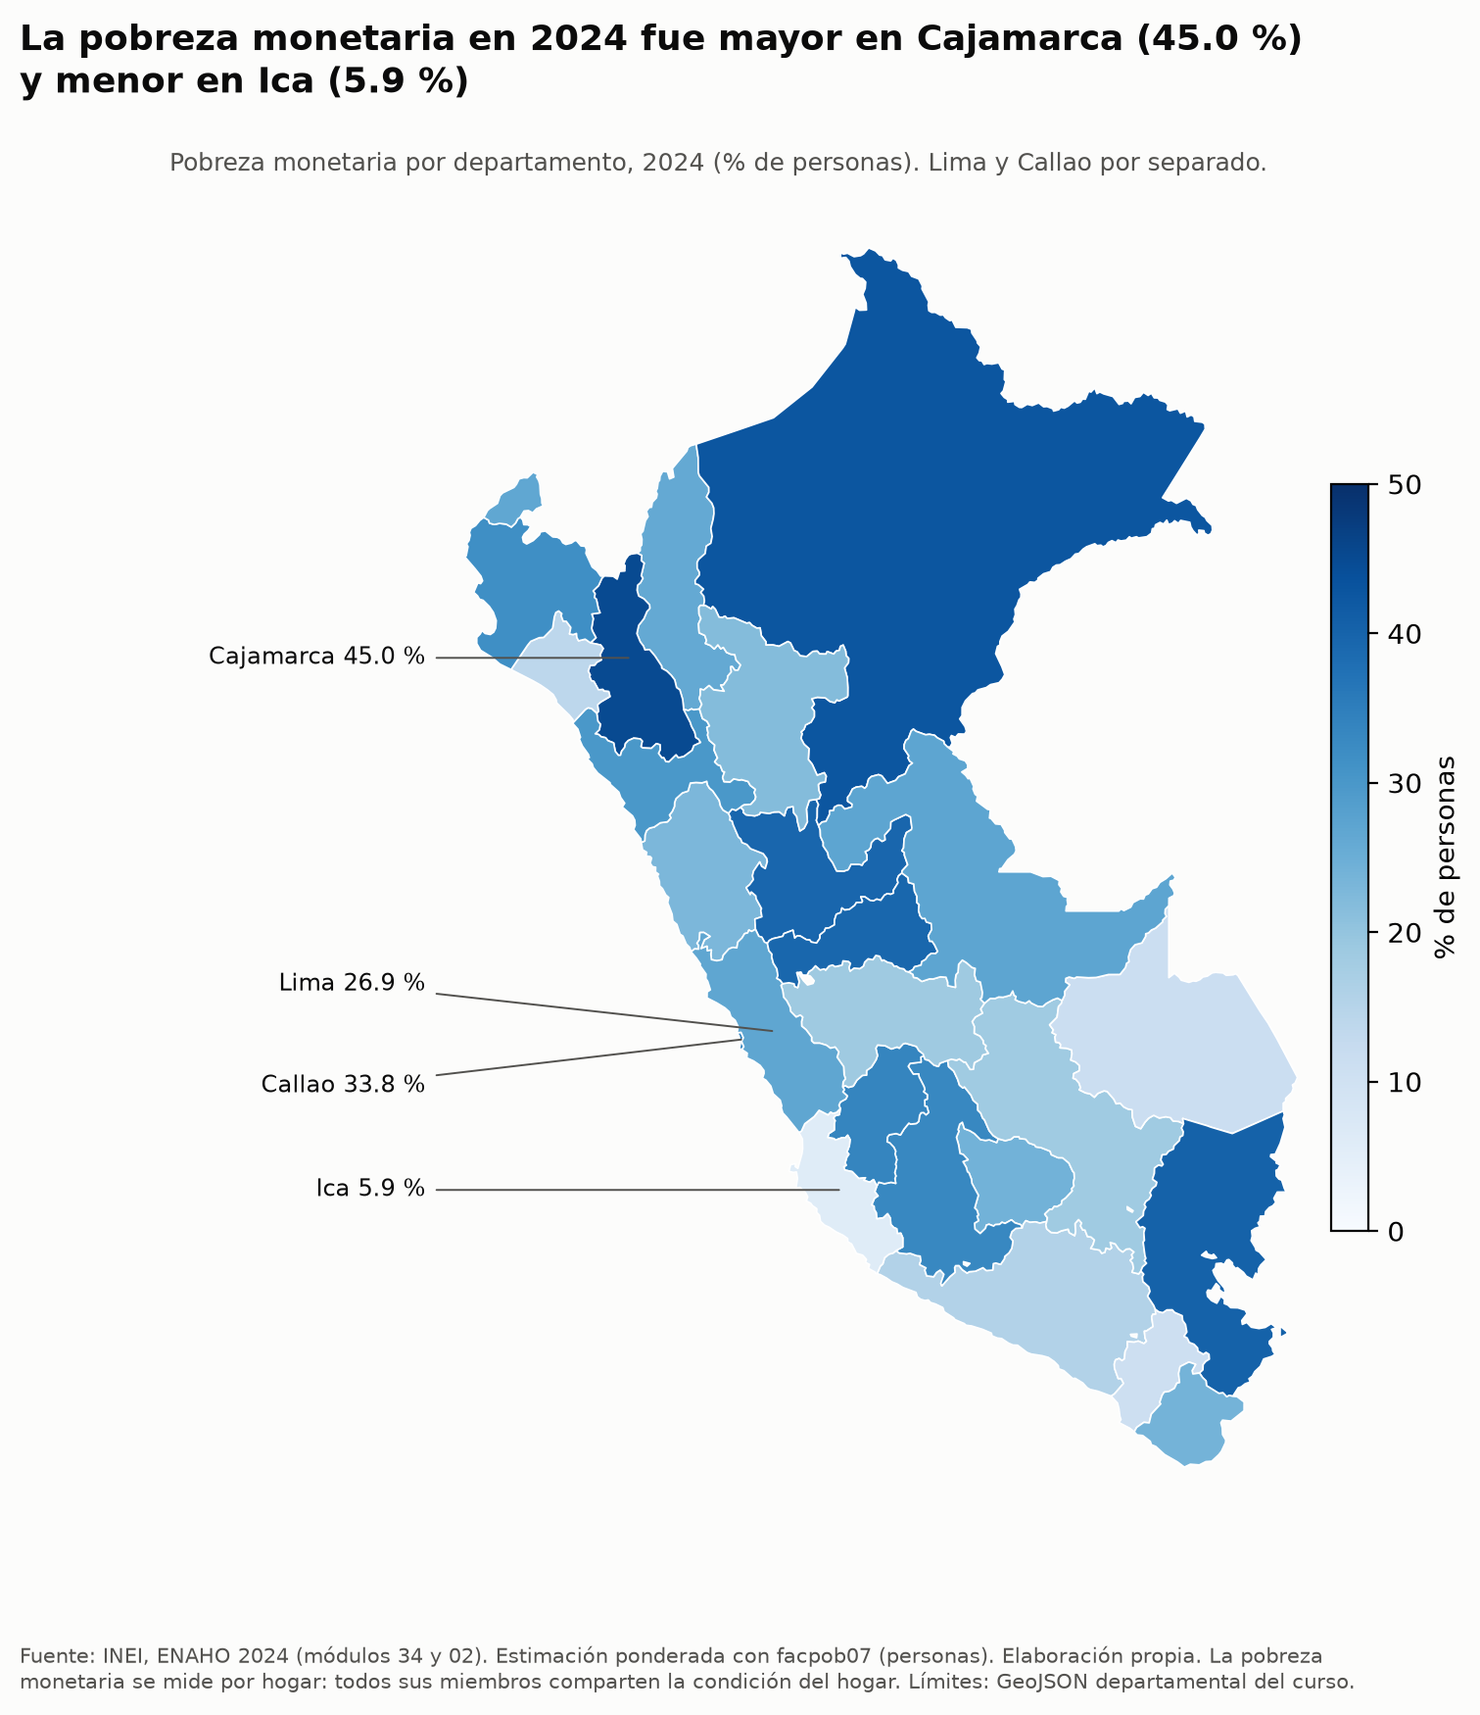
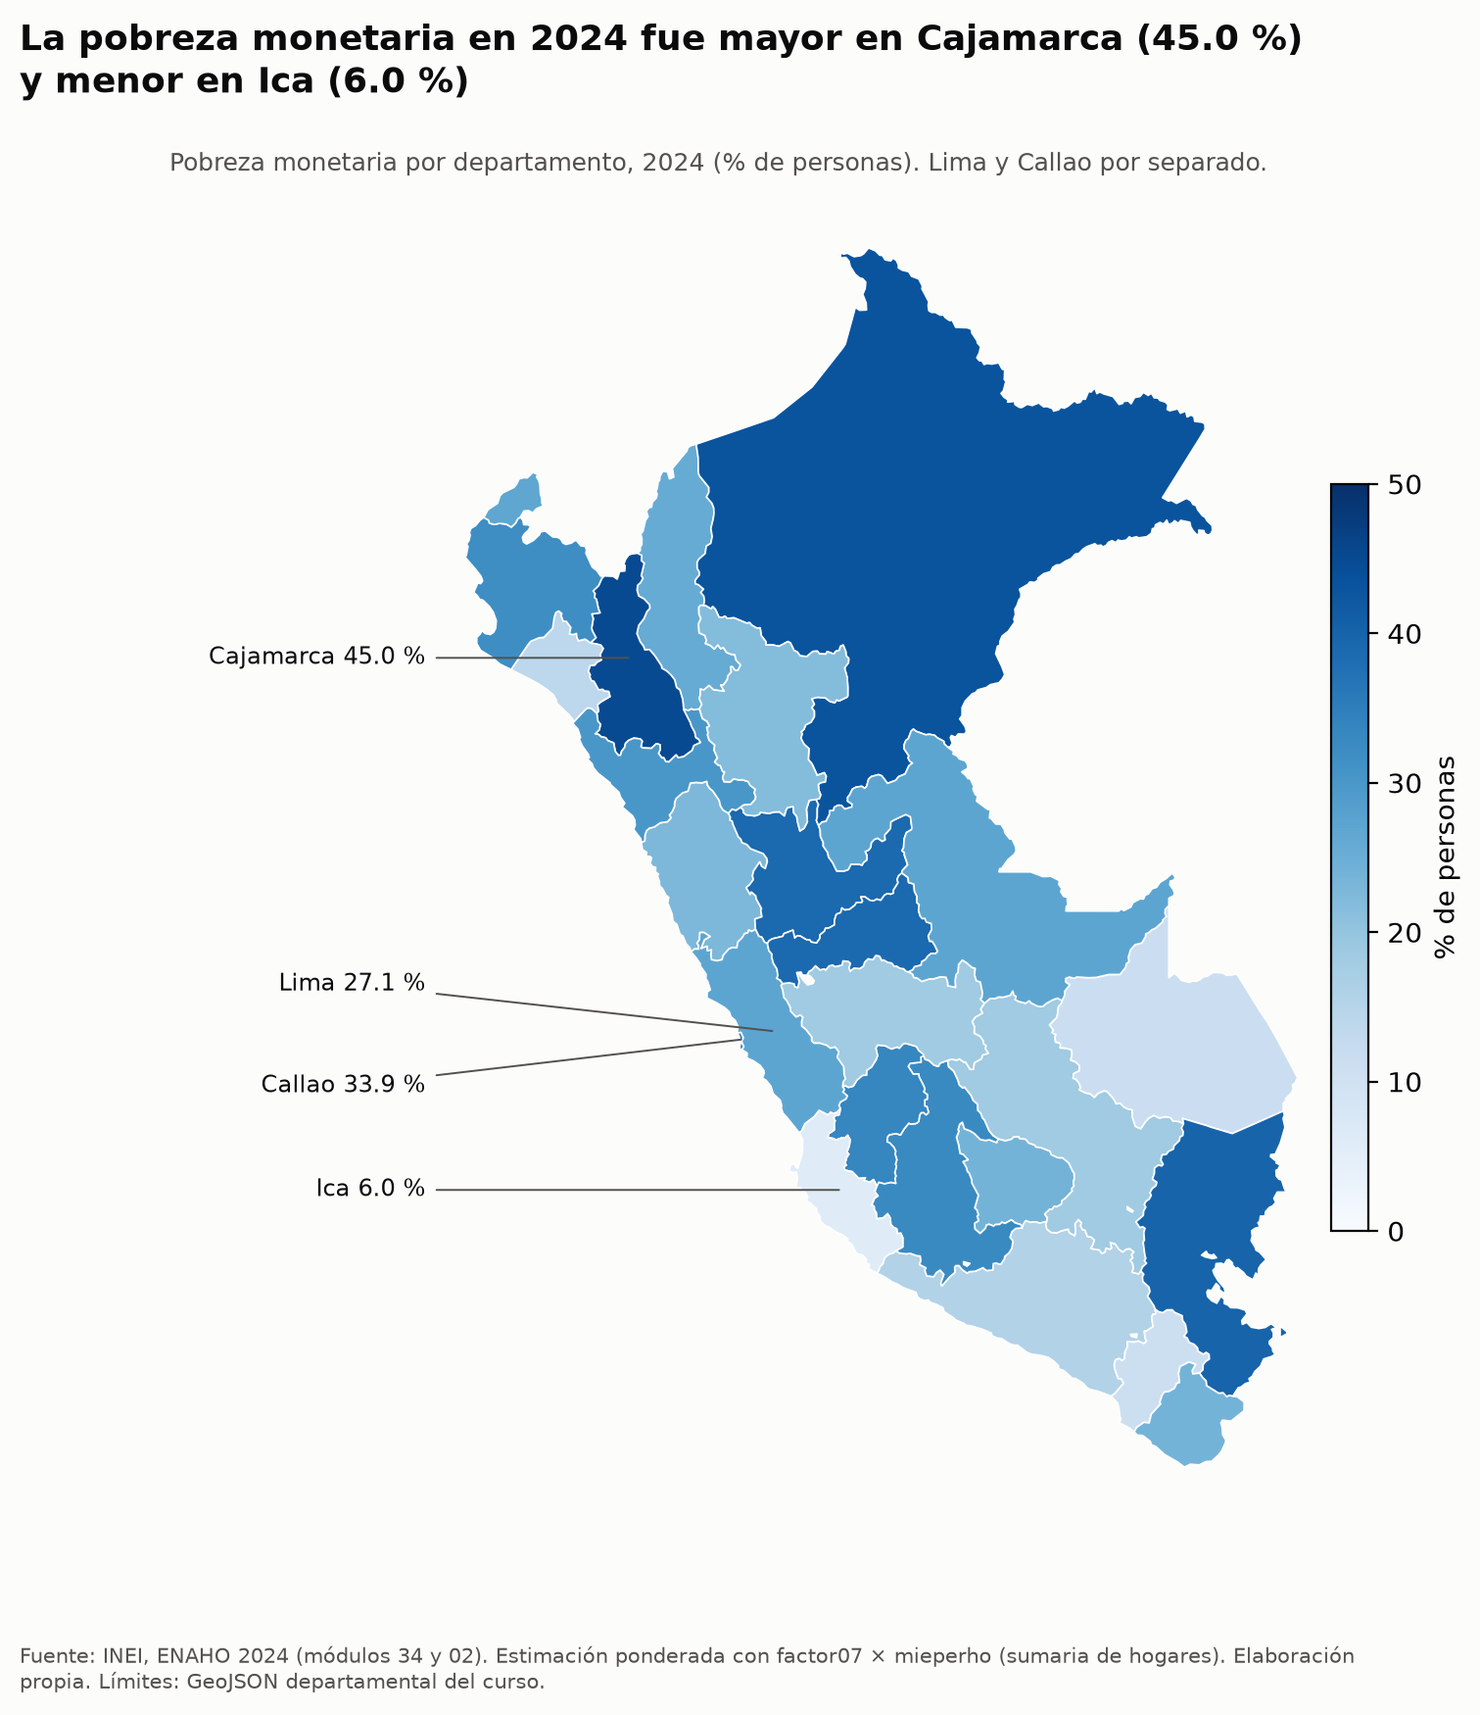
fix(skills): mapa ponderado con la sumaria (factor07 × mieperho)
El mapa usa ahora el mismo método que el gráfico de departamentos y la
referencia del curso: los 25 departamentos quedan a ≤0.1 pp de la
referencia y el script comprueba que coincida con indicadores.csv y
con grafico_por_departamento_2024.csv. comparacion_mapa.csv conserva la
cifra con facpob07 solo como contraste. Se actualizan la nota al pie,
SKILL.md, el README y la línea informativa de validacion.txt.

Changed region(s): [[0.4977, 0.9566, 0.9021, 0.9874], [0.0311, 0.9566, 0.4355, 0.9874]]

diff --git a/.claude/skills/mapeando-enaho/scripts/mapear.py b/.claude/skills/mapeando-enaho/scripts/mapear.py
@@ -3,8 +3,12 @@
 Uso (desde la raíz del proyecto):
     uv run python .claude/skills/mapeando-enaho/scripts/mapear.py
 
+Método: sumaria de hogares ponderada con factor07 × mieperho (el mismo del gráfico de
+departamentos de graficando-enaho y de la referencia del curso).
+
 Entradas:
-    salidas/personas_2024.parquet          (lo genera la skill limpiando-enaho)
+    salidas/hogares_2024.parquet           (lo genera la skill limpiando-enaho)
+    salidas/personas_2024.parquet          (solo para la columna informativa con facpob07)
     datos/peru_departamental_simple.geojson (límites; código FIRST_IDDP)
     datos/pobreza_departamento_2024.csv     (referencia de la Sesión 16 del curso,
                                              calculada con ENAHO 2024 del INEI)
@@ -36,11 +40,9 @@ TINTA = "#0b0b0b"
 TINTA_2 = "#52514e"
 FONDO = "#fcfcfb"
 CODIGOS = [f"{i:02d}" for i in range(1, 26)]
-# La referencia usa la sumaria (factor07 × mieperho) y viene redondeada a un decimal.
-# Con el mismo método se exige ≤0.1 pp. El mapa usa personas y facpob07; ahí se acepta
-# hasta 1 pp (la diferencia de método); una brecha mayor indica un error de unión.
-TOLERANCIA_MISMO_METODO_PP = 0.1
-TOLERANCIA_REF_PP = 1.0
+# El mapa y la referencia usan el mismo método (sumaria, factor07 × mieperho); la
+# referencia viene redondeada a un decimal, así que se exige ≤0.1 pp.
+TOLERANCIA_REF_PP = 0.1
 URL_GEOJSON = ("https://raw.githubusercontent.com/d2cml-ai/Data-Science-Python/main/"
                "sessions/06-geoespacial/lab/Data/peru_departamental_simple.geojson")
 URL_REF = ("https://raw.githubusercontent.com/d2cml-ai/Data-Science-Python/main/"
@@ -60,26 +62,32 @@ def main() -> None:
     ap.add_argument("--mapas", type=Path, default=Path("mapas"))
     a = ap.parse_args()
 
-    parquet = a.salidas / f"personas_{a.anio}.parquet"
-    if not parquet.exists():
-        fallar(f"no existe {parquet}. Usa primero la skill limpiando-enaho "
-               f"(uv run python .claude/skills/limpiando-enaho/scripts/limpiar.py --anio {a.anio}).")
+    hogares_pq = a.salidas / f"hogares_{a.anio}.parquet"
+    personas_pq = a.salidas / f"personas_{a.anio}.parquet"
+    for pq in (personas_pq, hogares_pq):
+        if not pq.exists():
+            fallar(f"no existe {pq}. Usa primero la skill limpiando-enaho "
+                   f"(uv run python .claude/skills/limpiando-enaho/scripts/limpiar.py --anio {a.anio}).")
     geo_path = a.datos / "peru_departamental_simple.geojson"
     ref_path = a.datos / f"pobreza_departamento_{a.anio}.csv"
     for ruta, url in [(geo_path, URL_GEOJSON), (ref_path, URL_REF)]:
         if not ruta.exists():
             fallar(f"falta {ruta}. Descárgalo de {url}")
 
-    # 1. Pobreza por departamento, ponderada con facpob07 (nunca promedio simple).
-    base = pd.read_parquet(parquet, columns=["departamento", "pobre", "facpob07"])
-    base["departamento"] = base["departamento"].astype(str)
-    pob = (
-        base.groupby("departamento")
-        .apply(lambda d: np.average(d["pobre"].astype(float), weights=d["facpob07"]) * 100,
-               include_groups=False)
-        .rename("pobreza_pct")
-        .reset_index()
-    )
+    def ponderar(df: pd.DataFrame, peso: str) -> pd.Series:
+        """% de personas pobres por departamento, ponderado (nunca promedio simple)."""
+        return df.groupby("departamento").apply(
+            lambda d: np.average(d["pobre"].astype(float), weights=d[peso]) * 100, include_groups=False)
+
+    # 1. Pobreza por departamento con la sumaria: cada hogar pesa factor07 × mieperho.
+    hog = pd.read_parquet(hogares_pq, columns=["departamento", "pobre", "factor07", "mieperho"])
+    hog["departamento"] = hog["departamento"].astype(str)
+    hog["peso"] = hog["factor07"] * hog["mieperho"]
+    pob = ponderar(hog, "peso").rename("pobreza_pct").reset_index()
+    # Solo informativo: la misma cifra con personas y facpob07.
+    per = pd.read_parquet(personas_pq, columns=["departamento", "pobre", "facpob07"])
+    per["departamento"] = per["departamento"].astype(str)
+    pob_personas = ponderar(per, "facpob07").rename("pobreza_personas_facpob07_pct").reset_index()
 
     # 2. Unir por código como texto (FIRST_IDDP), nunca por nombre.
     geo = gpd.read_file(geo_path)
@@ -103,40 +111,49 @@ def main() -> None:
     comp = (
         mapa[["FIRST_IDDP", "NOMBDEP", "pobreza_pct"]]
         .rename(columns={"FIRST_IDDP": "codigo", "NOMBDEP": "departamento",
-                         "pobreza_pct": "pobreza_calculada_pct"})
+                         "pobreza_pct": "pobreza_mapa_sumaria_pct"})
         .merge(ref.rename(columns={"ccdd": "codigo", "pobreza_pct": "pobreza_referencia_pct"})
                [["codigo", "pobreza_referencia_pct"]], on="codigo", how="left", validate="1:1")
+        .merge(pob_personas.rename(columns={"departamento": "codigo"}), on="codigo", how="left",
+               validate="1:1")
         .sort_values("codigo")
     )
-    # Contraste con el mismo método de la referencia (sumaria, factor07 × mieperho),
-    # que calcula limpiando-enaho en salidas/indicadores.csv.
-    ind = pd.read_csv(a.salidas / "indicadores.csv", dtype={"codigo": str})
-    sumaria = (ind.loc[ind.grupo == "departamento_contraste", ["codigo", "pobreza_pct"]]
-               .rename(columns={"pobreza_pct": "pobreza_sumaria_pct"}))
-    if len(sumaria) != 25:
-        fallar("indicadores.csv no tiene los 25 departamentos de contraste; vuelve a correr limpiando-enaho.")
-    comp = comp.merge(sumaria, on="codigo", how="left", validate="1:1")
-    comp["pobreza_calculada_pct"] = comp["pobreza_calculada_pct"].round(2)
-    comp["dif_facpob07_pp"] = (comp["pobreza_calculada_pct"] - comp["pobreza_referencia_pct"]).round(2)
-    comp["dif_sumaria_pp"] = (comp["pobreza_sumaria_pct"] - comp["pobreza_referencia_pct"]).round(2)
-    comp["valida_mismo_metodo"] = comp["dif_sumaria_pp"].abs() <= TOLERANCIA_MISMO_METODO_PP
-    comp["valida_facpob07"] = comp["dif_facpob07_pp"].abs() <= TOLERANCIA_REF_PP
-    comp = comp.rename(columns={"pobreza_calculada_pct": "pobreza_mapa_facpob07_pct"})
+    comp["pobreza_mapa_sumaria_pct"] = comp["pobreza_mapa_sumaria_pct"].round(2)
+    comp["pobreza_personas_facpob07_pct"] = comp["pobreza_personas_facpob07_pct"].round(2)
+    comp["diferencia_pp"] = (comp["pobreza_mapa_sumaria_pct"] - comp["pobreza_referencia_pct"]).round(2)
+    comp["dentro_tolerancia"] = comp["diferencia_pp"].abs() <= TOLERANCIA_REF_PP
+    comp["metodo_mapa"] = "factor07 × mieperho (sumaria de hogares)"
     comp["referencia"] = "Sesión 16 del curso, calculada con ENAHO 2024 del INEI"
+    comp = comp[["codigo", "departamento", "pobreza_mapa_sumaria_pct", "pobreza_referencia_pct",
+                 "diferencia_pp", "dentro_tolerancia", "pobreza_personas_facpob07_pct",
+                 "metodo_mapa", "referencia"]]
     a.salidas.mkdir(parents=True, exist_ok=True)
-    comp.drop(columns="geometry", errors="ignore").to_csv(
-        a.salidas / "comparacion_mapa.csv", index=False, encoding="utf-8")
+    comp.to_csv(a.salidas / "comparacion_mapa.csv", index=False, encoding="utf-8")
     print(f"Guardado: {a.salidas / 'comparacion_mapa.csv'}")
-    for col, met in [("dif_sumaria_pp", "sumaria, factor07 × mieperho (mismo método)"),
-                     ("dif_facpob07_pp", "personas, facpob07 (valor del mapa)")]:
-        print(f"Diferencia con la referencia [{met}]: media {comp[col].abs().mean():.2f} pp, "
-              f"máxima {comp[col].abs().max():.2f} pp ({comp.loc[comp[col].abs().idxmax(), 'departamento']}).")
-    malos = comp.loc[~(comp["valida_mismo_metodo"] & comp["valida_facpob07"])]
-    if comp["pobreza_referencia_pct"].isna().any() or len(malos):
-        print(malos.to_string(index=False))
-        fallar(f"algún departamento difiere de la referencia (>{TOLERANCIA_MISMO_METODO_PP} pp con el mismo "
-               f"método o >{TOLERANCIA_REF_PP} pp con facpob07); revisa la unión (no ajustes resultados).")
-    print(f"Validación: 25 de 25 departamentos a ≤{TOLERANCIA_MISMO_METODO_PP} pp de la referencia con el mismo método.")
+    print(f"Diferencia con la referencia: media {comp['diferencia_pp'].abs().mean():.2f} pp, máxima "
+          f"{comp['diferencia_pp'].abs().max():.2f} pp ({comp.loc[comp['diferencia_pp'].abs().idxmax(), 'departamento']}).")
+    if comp["pobreza_referencia_pct"].isna().any() or not comp["dentro_tolerancia"].all():
+        print(comp.loc[~comp["dentro_tolerancia"]].to_string(index=False))
+        fallar(f"algún departamento difiere de la referencia en más de {TOLERANCIA_REF_PP} pp; "
+               "revisa la unión y la ponderación (no ajustes resultados).")
+    print(f"Validación: 25 de 25 departamentos a ≤{TOLERANCIA_REF_PP} pp de la referencia.")
+
+    # Control: el mapa debe coincidir con indicadores.csv (limpiando-enaho) y con el
+    # gráfico de departamentos (graficando-enaho), que usan el mismo método.
+    ind = pd.read_csv(a.salidas / "indicadores.csv", dtype={"codigo": str})
+    ref_ind = ind.loc[ind.grupo == "departamento_contraste"].set_index("codigo")["pobreza_pct"]
+    dif_ind = (comp.set_index("codigo")["pobreza_mapa_sumaria_pct"] - ref_ind).abs().max()
+    if not dif_ind <= 0.01:
+        fallar(f"el mapa no coincide con indicadores.csv (dif. {dif_ind}).")
+    graf = a.salidas / f"grafico_por_departamento_{a.anio}.csv"
+    if graf.exists():
+        # El CSV del gráfico guarda 3 decimales: se compara con el valor sin redondear del mapa
+        # (re-redondear a 2 decimales causaría falsas diferencias de 0.01).
+        g = pd.read_csv(graf, dtype={"codigo": str}).set_index("codigo")["estimacion"]
+        dif_g = (pob.set_index("departamento")["pobreza_pct"] - g).abs().max()
+        if not dif_g <= 0.001:
+            fallar(f"el mapa no coincide con {graf} (dif. {dif_g}).")
+        print(f"Control: el mapa coincide con indicadores.csv y con {graf.name}.")
 
     # 4. Mapa: una sola escala secuencial (claro→oscuro) desde 0.
     vmax = float(np.ceil(mapa["pobreza_pct"].max() / 10) * 10)
@@ -170,9 +187,8 @@ def main() -> None:
     ax.set_title(f"Pobreza monetaria por departamento, {a.anio} (% de personas). "
                  "Lima y Callao por separado.", loc="left", fontsize=9, color=TINTA_2)
     # Misma nota que graficando-enaho (sin la frase de IC: el mapa no muestra intervalos).
-    nota = (f"Fuente: INEI, ENAHO {a.anio} (módulos 34 y 02). Estimación ponderada con facpob07 (personas). "
-            "Elaboración propia. La pobreza monetaria se mide por hogar: todos sus miembros comparten la "
-            "condición del hogar. Límites: GeoJSON departamental del curso.")
+    nota = (f"Fuente: INEI, ENAHO {a.anio} (módulos 34 y 02). Estimación ponderada con factor07 × mieperho "
+            "(sumaria de hogares). Elaboración propia. Límites: GeoJSON departamental del curso.")
     fig.text(0.04, 0.02, textwrap.fill(nota, 125), fontsize=7.5, color=TINTA_2, ha="left", va="bottom")
     a.mapas.mkdir(parents=True, exist_ok=True)
     salida = a.mapas / f"pobreza_departamento_{a.anio}.png"

diff --git a/.claude/skills/limpiando-enaho/scripts/limpiar.py b/.claude/skills/limpiando-enaho/scripts/limpiar.py
@@ -257,7 +257,8 @@ def main() -> None:
     fallidas = [c for c in chequeos if not c[1] and c[2]]
     lineas += [
         "",
-        "[INFORMATIVA] Pobreza por área con personas y facpob07 (la que usan los gráficos y el mapa): "
+        "[INFORMATIVA] Pobreza por área con personas y facpob07 (contraste; los gráficos de área y "
+        "departamento y el mapa usan la sumaria, los de sexo y edad usan personas): "
         f"urbano {urb_p:.2f} %, rural {rur_p:.2f} %.",
         f"[INFORMATIVA] Difiere de la sumaria porque en {n_hog_distinto:,} de {len(sumaria):,} hogares "
         f"({n_hog_distinto / len(sumaria):.1%}) los residentes habituales del módulo 02 no coinciden con "

diff --git a/README.md b/README.md
@@ -103,7 +103,7 @@ resultado es el mismo cada vez.
 |---|---|---|---|
 | `limpiando-enaho` | Lee los módulos 34 y 02, filtra residentes habituales, une con `validate="m:1"`, construye departamento, área, sexo y pobreza; pondera y valida | `datos/966-Modulo34.zip`, `datos/966-Modulo02.zip` | `salidas/personas_2024.parquet` y `salidas/hogares_2024.parquet` (no se suben), `salidas/indicadores.csv`, `salidas/validacion.txt` |
 | `graficando-enaho` | Barras de pobreza (o pobreza extrema) por área, sexo, edad y departamento, con IC 95 % del diseño muestral y el promedio nacional | los dos parquet | `figuras/pobreza_{area,sexo,edad,departamento}_2024.png`, `salidas/grafico_por_<corte>_2024.csv` |
-| `mapeando-enaho` | Mapa coroplético por departamento unido por código (`ubigeo[:2]` = `FIRST_IDDP`) y comparación con la referencia | el parquet, el GeoJSON y el CSV de referencia | `mapas/pobreza_departamento_2024.png`, `salidas/comparacion_mapa.csv` |
+| `mapeando-enaho` | Mapa coroplético por departamento con la sumaria (`factor07 × mieperho`), unido por código (`ubigeo[:2]` = `FIRST_IDDP`) y comparado con la referencia | los dos parquet, el GeoJSON y el CSV de referencia | `mapas/pobreza_departamento_2024.png`, `salidas/comparacion_mapa.csv` |
 
 `graficando-enaho` y `mapeando-enaho` dicen: «Si no existe `salidas/personas_2024.parquet`, usa primero
 la skill `limpiando-enaho`». Así un solo pedido (por ejemplo, «Haz un mapa de la pobreza monetaria por
@@ -112,11 +112,12 @@ departamento con ENAHO 2024») activa dos skills seguidas.
 ### Ponderación
 
 Toda cifra está ponderada; nunca se usan promedios simples. La base de personas usa `facpob07`, el factor
-de expansión de cada persona. Como contraste, la sumaria usa `factor07 × mieperho`, porque cada hogar
-representa a tantas personas como su factor por el número de miembros. Las cifras oficiales por área y la
-referencia por departamento usan la sumaria, así que cada cifra se valida contra la referencia calculada
-con el mismo método. Las dos ponderaciones difieren en décimas porque en algunos hogares los residentes
-habituales no coinciden con `mieperho`; el detalle está en `salidas/validacion.txt`.
+de expansión de cada persona. La sumaria usa `factor07 × mieperho`, porque cada hogar representa a tantas
+personas como su factor por el número de miembros. Las cifras oficiales por área y la referencia por
+departamento usan la sumaria, así que los gráficos de área y departamento y el mapa también la usan; sexo
+y edad, que son atributos de cada persona, usan `facpob07`. Las dos ponderaciones difieren en décimas
+porque en algunos hogares los residentes habituales no coinciden con `mieperho`; el detalle está en
+`salidas/validacion.txt`.
 
 ### Descargar los datos
 
@@ -176,7 +177,7 @@ Cada cifra se compara con la referencia calculada con el mismo método.
 [APROBADA] Pobreza urbana (sumaria, factor07 × mieperho) ≈ 24.8 % (≤0.1 pp): 24.81 % (diferencia +0.01 pp)
 [APROBADA] Pobreza rural (sumaria, factor07 × mieperho) ≈ 39.3 % (≤0.1 pp): 39.30 % (diferencia +0.00 pp)
 
-[INFORMATIVA] Pobreza por área con personas y facpob07 (la que usan los gráficos y el mapa): urbano 24.74 %, rural 39.44 %.
+[INFORMATIVA] Pobreza por área con personas y facpob07 (contraste; los gráficos de área y departamento y el mapa usan la sumaria, los de sexo y edad usan personas): urbano 24.74 %, rural 39.44 %.
 [INFORMATIVA] Difiere de la sumaria porque en 1,846 de 33,691 hogares (5.5%) los residentes habituales del módulo 02 no coinciden con mieperho (el INEI excluye de mieperho a trabajadores del hogar y pensionistas). Son dos ponderaciones válidas; ninguna cifra se ajustó.
 
 Resultado: 12 de 12 verificaciones aprobadas.

diff --git a/.claude/skills/mapeando-enaho/SKILL.md b/.claude/skills/mapeando-enaho/SKILL.md
@@ -11,8 +11,9 @@ No calcules la pobreza por tu cuenta ni leas los `.dta` directamente.
 
 ## Pasos
 
-1. Verifica que exista `salidas/personas_2024.parquet`. Si no existe, usa la skill
-   `limpiando-enaho` y continúa solo si su `salidas/validacion.txt` no tiene `FALLIDA`.
+1. Verifica que existan `salidas/personas_2024.parquet` y `salidas/hogares_2024.parquet`. Si
+   falta alguno, usa la skill `limpiando-enaho` y continúa solo si su `salidas/validacion.txt`
+   no tiene `FALLIDA`.
 2. Verifica que existan en `datos/`:
    - `peru_departamental_simple.geojson` (límites; descarga:
      https://raw.githubusercontent.com/d2cml-ai/Data-Science-Python/main/sessions/06-geoespacial/lab/Data/peru_departamental_simple.geojson)
@@ -34,15 +35,15 @@ No calcules la pobreza por tu cuenta ni leas los `.dta` directamente.
 - Une `ubigeo[:2]` con `FIRST_IDDP`, ambos como texto. **Nunca por nombre**
   («APURIMAC» no es «Apurímac»).
 - Exige 25 departamentos con dato; Lima (15) y Callao (07) van separados.
-- Pondera con `facpob07`; nunca promedio simple.
-- Escala secuencial de un solo color, de claro a oscuro, desde 0; nunca arcoíris.
-- Leyenda con la unidad «% de personas» y nota «Fuente: INEI, ENAHO 2024».
+- Pondera con la sumaria de hogares, `factor07 × mieperho` (el mismo método del gráfico de
+  departamentos de `graficando-enaho` y de la referencia del curso); nunca promedio simple.
+- Escala secuencial `Blues`, de claro a oscuro, desde 0; nunca arcoíris.
+- Leyenda con la unidad «% de personas» y nota «Fuente: INEI, ENAHO 2024 (módulos 34 y 02)…».
 
 ## Comparación con la referencia
 
-`salidas/comparacion_mapa.csv` trae, por departamento, el valor del mapa (personas,
-`facpob07`), el valor con la sumaria (`factor07 × mieperho`, el método de la
-referencia) y la referencia del curso. La validación estricta (≤0.1 pp) usa el mismo
-método que la referencia. El valor del mapa puede diferir algunas décimas por la
-ponderación, y debe quedar a ≤1 pp. Cita las cifras desde ese CSV y no las presentes
-como causales.
+`salidas/comparacion_mapa.csv` trae, por departamento, el valor del mapa (sumaria,
+`factor07 × mieperho`), la referencia del curso, la diferencia (debe ser ≤0.1 pp) y, solo
+como contraste, la cifra con personas y `facpob07`. El script además comprueba que el mapa
+coincida con `salidas/indicadores.csv` y con `salidas/grafico_por_departamento_2024.csv`.
+Cita las cifras desde ese CSV y no las presentes como causales.
